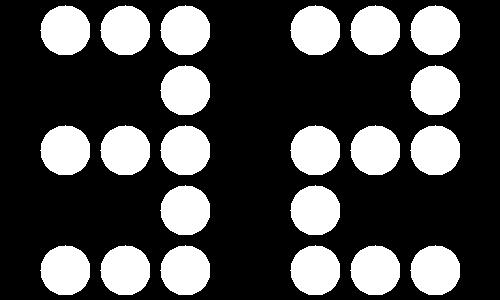
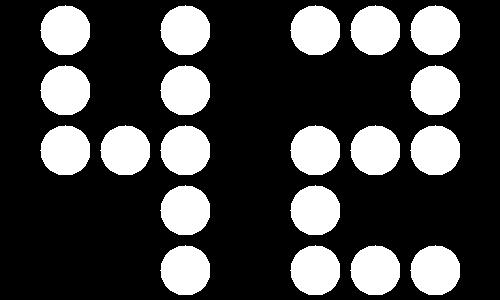
Assignment #1 README added

Changed region(s): [[0.06, 0.81, 0.3, 0.99], [0.06, 0.21, 0.18, 0.39], [0.18, 0.0, 0.3, 0.18]]

diff --git a/assignment1/jigsolver.py b/assignment1/jigsolver.py
@@ -12,7 +12,6 @@ directly stores the jigsolved.jpg file at current location where the command is 
 import os
 import sys
 import argparse
-import traceback
 from typing import Tuple
 import numpy as np
 from PIL import Image
@@ -89,16 +88,16 @@ def main():
 
         A = np.array(Image.open(args.filepath))
 
-        print(A.shape)
-
         A = solve_jigsaw(A)
 
         save_image(A, "jigsolved.jpg")
 
         print("Jigsaw image solved and saved successfully as jigsolved.jpg")
+        return 0
 
-    except:
-        traceback.print_exc()
+    except Exception as e:
+        print(e)
+        return -1
 
 
 if __name__ == "__main__":

diff --git a/assignment1/dotmatrix.py b/assignment1/dotmatrix.py
@@ -12,7 +12,6 @@ nd ∈ {00, 01, ..., 99} and directly stores the dotmatrix.jpg file at current l
 
 import sys
 import argparse
-import traceback
 from typing import Tuple
 import numpy as np
 from PIL import Image
@@ -96,9 +95,11 @@ def main():
         save_image(A, "dotmatrix.jpg")
 
         print("Dotmatrix image generated and saved successfully as dotmatrix.jpg")
+        return 0
 
-    except:
-        traceback.print_exc()
+    except Exception as e:
+        print(e)
+        return -1
 
 
 if __name__ == "__main__":

diff --git a/assignment1/README.md b/assignment1/README.md
@@ -1,0 +1,64 @@
+# Assignment 1
+
+> Gurbaaz Singh Nandra
+> 190349
+> 28th August 2022
+
+## Setup
+
+Setup a virtual environment to install the following dependencies to work with images
+
+```bash
+python -m venv venv
+source venv/bin/activate
+pip install numpy pillow
+```
+
+## Usage
+
+1. `dotmatrix.py`
+
+```bash
+python dotmatrix.py --help
+
+usage: dotmatrix.py [-h] n_d
+
+positional arguments:
+  n_d         Docking station number nd ∈ {00, 01, ..., 99}
+
+options:
+  -h, --help  show this help message and exit
+```
+
+e.g.
+
+```bash
+python dotmatrix.py 42
+```
+
+
+2. `jigsolver.py`
+
+```bash
+python jigsolver.py --help
+
+usage: jigsolver.py [-h] filepath
+
+positional arguments:
+  filepath    file path for input jigsaw.jpg
+
+options:
+  -h, --help  show this help message and exit
+```
+
+e.g.
+
+```bash
+python jigsolver.py ./jigsaw.jpg
+```
+
+3. `cycloneanalyzer.ipynb`
+
+```bash
+tba
+```
